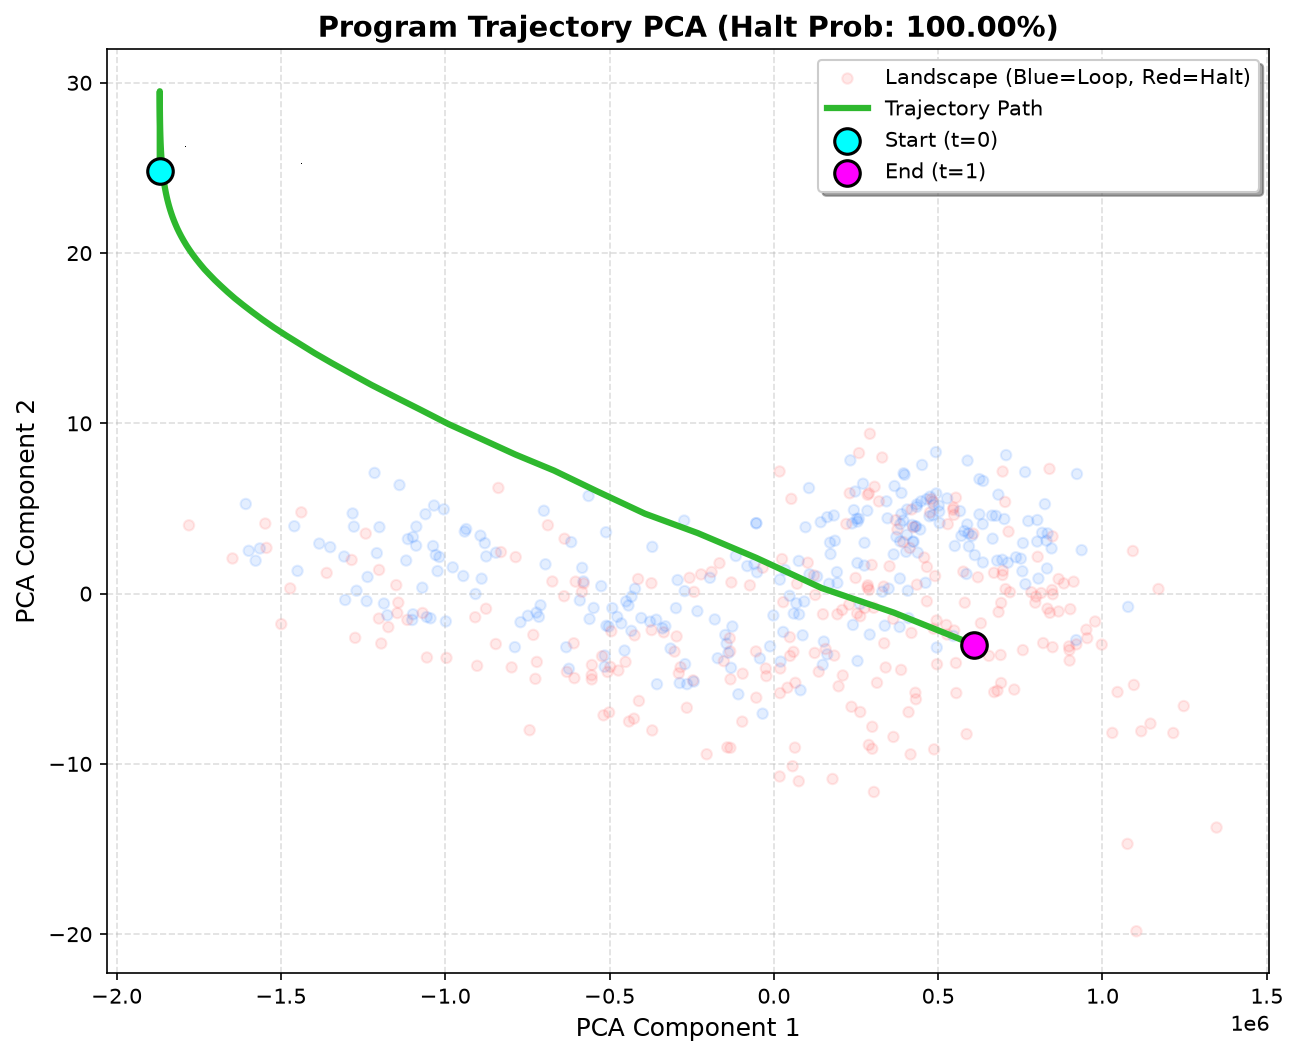
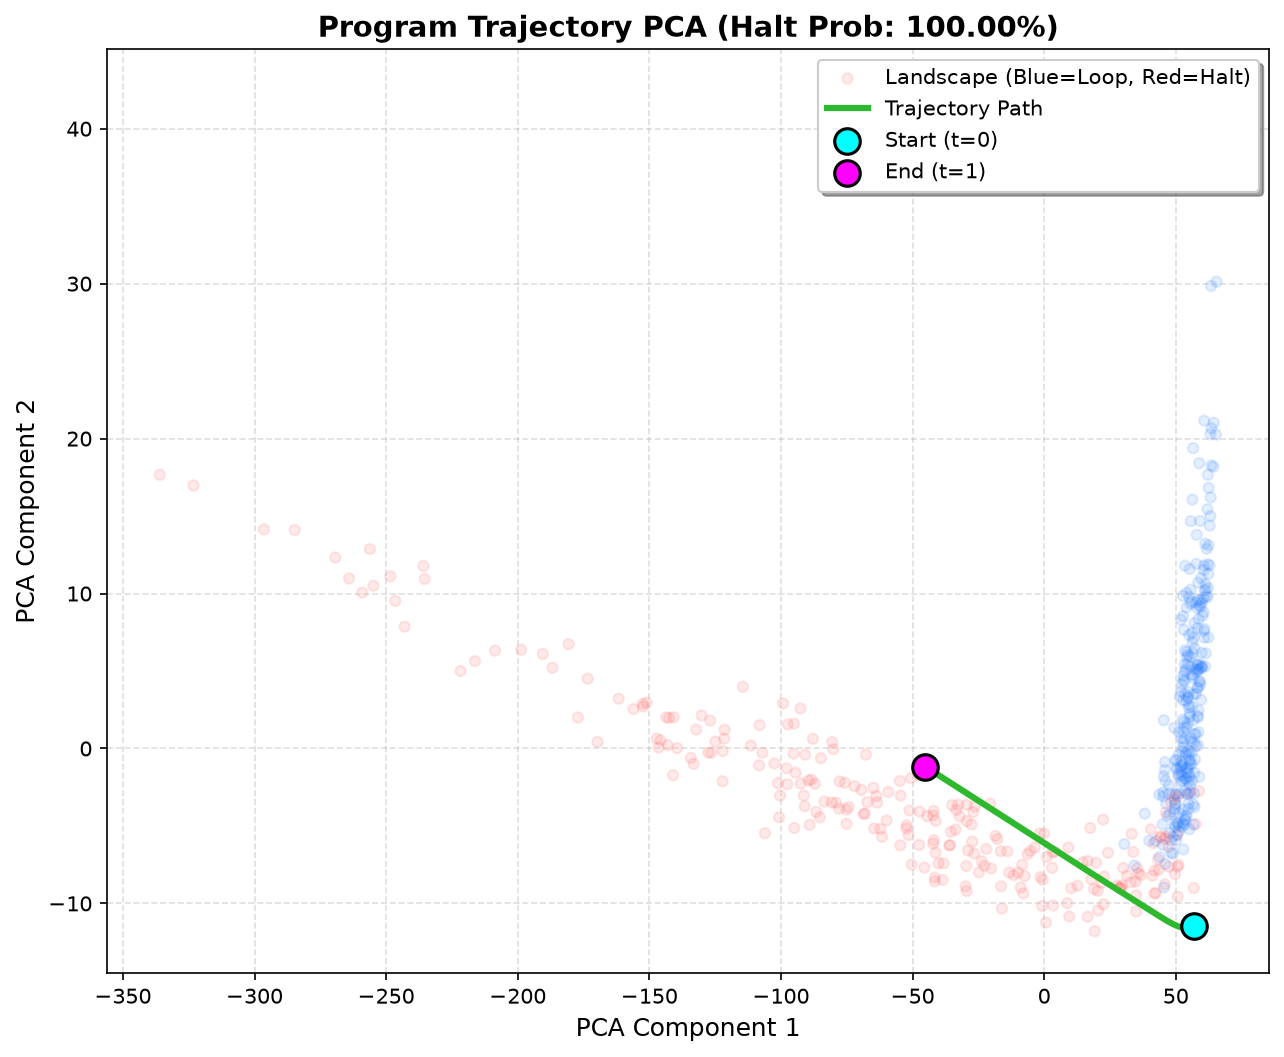
feat: implement timestamped run directories and automatic checkpoint resolution for inference

diff --git a/src/inference.py b/src/inference.py
@@ -60,6 +60,26 @@ def program_to_tokens(program_str_list, max_len=8):
     return tokens
 
 
+def get_latest_checkpoint_path(runs_dir="runs"):
+    """Cerca la cartella run_ più recente e restituisce il percorso del checkpoint."""
+    if not os.path.exists(runs_dir):
+        return None
+    subdirs = [
+        os.path.join(runs_dir, d) for d in os.listdir(runs_dir)
+        if os.path.isdir(os.path.join(runs_dir, d)) and d.startswith("run_")
+    ]
+    if not subdirs:
+        return None
+    # Ordina in base al nome (funziona cronologicamente grazie al formato run_YYYYMMDD_HHMMSS)
+    subdirs.sort()
+    latest_dir = subdirs[-1]
+    checkpoint_path = os.path.join(latest_dir, "best_halting_model.pth")
+    if os.path.exists(checkpoint_path):
+        return checkpoint_path
+    return None
+
+
+
 def main():
     import argparse
 
@@ -84,6 +104,12 @@ def main():
         type=float,
         default=0.0,
         help="Initial value of register R1 (default: 0.0)",
+    )
+    parser.add_argument(
+        "--weights",
+        type=str,
+        default="runs/best_halting_model.pth",
+        help="Path to the model weights (default: runs/best_halting_model.pth)",
     )
     args = parser.parse_args()
 
@@ -111,10 +137,17 @@ def main():
     device = torch.device("cpu")
     model = ContinuousHaltingModel(embed_dim=32, latent_dim=256).to(device)
 
-    checkpoint_paths = ["runs/best_halting_model.pth", "best_halting_model.pth"]
+    # Cerca la run più recente o usa il fallback
+    latest_run_path = get_latest_checkpoint_path()
+    checkpoint_paths = [
+        args.weights if args.weights != "runs/best_halting_model.pth" else None,
+        latest_run_path,
+        "runs/best_halting_model.pth",
+        "best_halting_model.pth"
+    ]
     loaded = False
     for path in checkpoint_paths:
-        if os.path.exists(path):
+        if path and os.path.exists(path):
             model.load_state_dict(torch.load(path, map_location=device))
             print(f"Loaded model weights from: {path}")
             loaded = True

diff --git a/src/train.py b/src/train.py
@@ -9,8 +9,11 @@ from sklearn.decomposition import PCA
 from sklearn.model_selection import train_test_split
 import matplotlib.pyplot as plt
 import io
+import os
+import datetime
 from PIL import Image
 import torchvision.transforms as transforms
+
 
 try:
     from src.model import ContinuousHaltingModel
@@ -79,7 +82,13 @@ def train(epochs=100, patience=15):
     scheduler = torch.optim.lr_scheduler.CosineAnnealingLR(optimizer, T_max=epochs)
 
     t_span = torch.tensor([0.0, 1.0]).to(device)
-    writer = SummaryWriter("runs/halting_poc")
+    
+    # Genera un ID run univoco basato sulla data/ora corrente
+    run_id = datetime.datetime.now().strftime("run_%Y%m%d_%H%M%S")
+    run_dir = os.path.join("runs", run_id)
+    os.makedirs(run_dir, exist_ok=True)
+    
+    writer = SummaryWriter(log_dir=run_dir)
 
     best_val_loss = float("inf")
     patience_counter = 0
@@ -160,8 +169,12 @@ def train(epochs=100, patience=15):
         if avg_val_loss < best_val_loss:
             best_val_loss = avg_val_loss
             patience_counter = 0
-            torch.save(model.state_dict(), "runs/best_halting_model.pth")
-            print(f"--> Saved best model checkpoint with Val Loss {best_val_loss:.4f} to runs/")
+            
+            # Salva checkpoint specifico della run
+            checkpoint_path = os.path.join(run_dir, "best_halting_model.pth")
+            torch.save(model.state_dict(), checkpoint_path)
+            
+            print(f"--> Saved best model checkpoint with Val Loss {best_val_loss:.4f} to {checkpoint_path}")
         else:
             patience_counter += 1
             if patience_counter >= patience:
@@ -181,7 +194,7 @@ def train(epochs=100, patience=15):
                 writer.add_image("Latent_PCA", img, epoch)
 
     writer.close()
-    print("Training completato. Pesi migliori salvati in 'runs/best_halting_model.pth'.")
+    print(f"Training completato. Pesi migliori salvati in '{os.path.join(run_dir, 'best_halting_model.pth')}'.")
     print("Esegui 'tensorboard --logdir=runs' per visualizzare.")
 
 